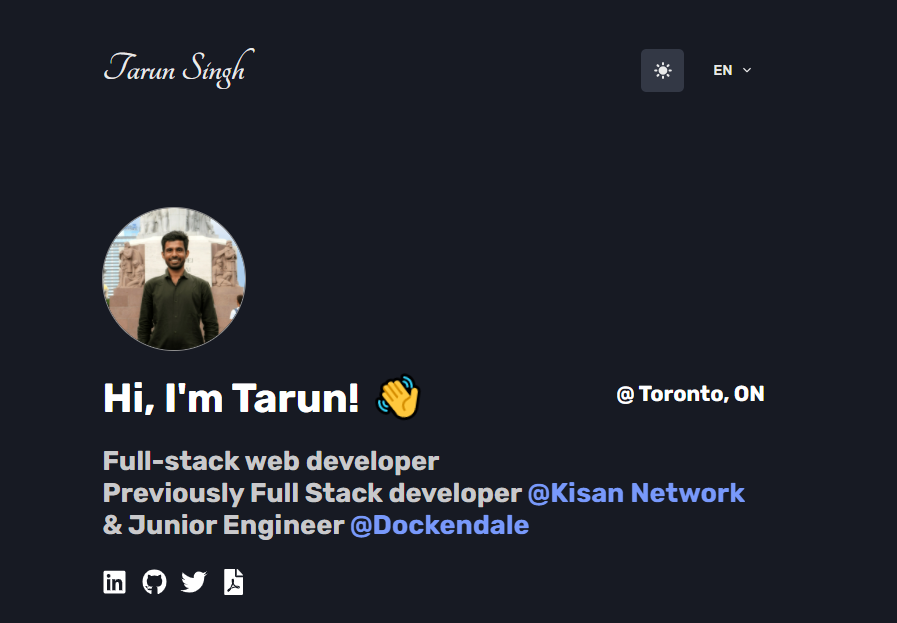
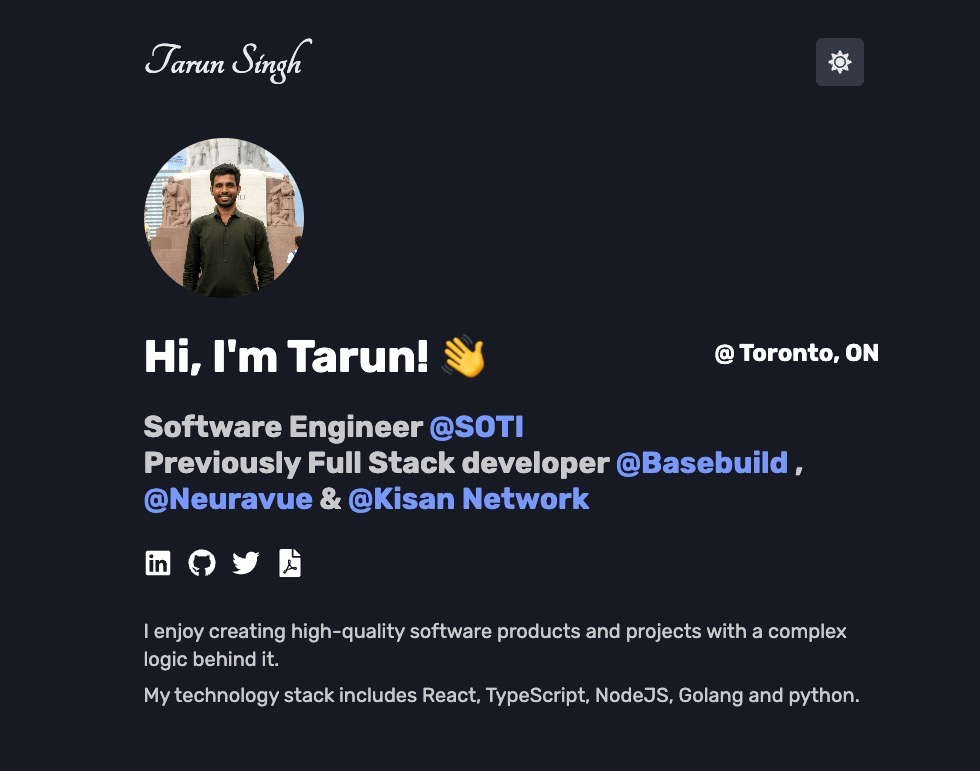
Fixed couple of issues

diff --git a/components/Skills/libs/Icons/component.tsx b/components/Skills/libs/Icons/component.tsx
@@ -21,6 +21,19 @@ export const TsIcon: FC<Props> = ({ className }: Props) => {
   );
 };
 
+export const NodeJSIcon: FC<Props> = ({ className }: Props) => {
+  return (
+    <svg
+      fill="#339933"
+      className={className}
+      viewBox="0 0 24 24"
+      xmlns="http://www.w3.org/2000/svg"
+    >
+      <path d="M11.998,24c-0.321,0-0.641-0.084-0.922-0.247l-2.936-1.737c-0.438-0.245-0.224-0.332-0.08-0.383 c0.585-0.203,0.703-0.25,1.328-0.604c0.065-0.037,0.151-0.023,0.218,0.017l2.256,1.339c0.082,0.045,0.197,0.045,0.272,0l8.795-5.076 c0.082-0.047,0.134-0.141,0.134-0.238V6.921c0-0.099-0.053-0.192-0.137-0.242l-8.791-5.072c-0.081-0.047-0.189-0.047-0.271,0 L3.075,6.68C2.99,6.729,2.936,6.825,2.936,6.921v10.15c0,0.097,0.054,0.189,0.139,0.235l2.409,1.392 c1.307,0.654,2.108-0.116,2.108-0.89V7.787c0-0.142,0.114-0.253,0.256-0.253h1.115c0.139,0,0.255,0.112,0.255,0.253v10.021 c0,1.745-0.95,2.745-2.604,2.745c-0.508,0-0.909,0-2.026-0.551L2.28,18.675c-0.57-0.329-0.922-0.945-0.922-1.604V6.921 c0-0.659,0.353-1.275,0.922-1.603l8.795-5.082c0.557-0.315,1.296-0.315,1.848,0l8.794,5.082c0.57,0.329,0.924,0.944,0.924,1.603 v10.15c0,0.659-0.354,1.273-0.924,1.604l-8.794,5.078C12.643,23.916,12.324,24,11.998,24z M19.099,13.993 c0-1.9-1.284-2.406-3.987-2.763c-2.731-0.361-3.009-0.548-3.009-1.187c0-0.528,0.235-1.233,2.258-1.233 c1.807,0,2.473,0.389,2.747,1.607c0.024,0.115,0.129,0.199,0.247,0.199h1.141c0.071,0,0.138-0.031,0.186-0.081 c0.048-0.054,0.074-0.123,0.067-0.196c-0.177-2.098-1.571-3.076-4.388-3.076c-2.508,0-4.004,1.058-4.004,2.833 c0,1.925,1.488,2.457,3.895,2.695c2.88,0.282,3.103,0.703,3.103,1.269c0,0.983-0.789,1.402-2.642,1.402 c-2.327,0-2.839-0.584-3.011-1.742c-0.02-0.124-0.126-0.215-0.253-0.215h-1.137c-0.141,0-0.254,0.112-0.254,0.253 c0,1.482,0.806,3.248,4.655,3.248C17.501,17.007,19.099,15.91,19.099,13.993z" />
+    </svg>
+  );
+};
+
 export const ActionsIcon: FC<Props> = ({ className }: Props) => {
   return (
     <svg

diff --git a/components/Hero/component.tsx b/components/Hero/component.tsx
@@ -27,12 +27,14 @@ export const Hero: FC = () => {
       </div>
       <p className="text-xl font-bold tracking-normal md:text-3xl text-black-700 dark:text-white-700">
         {"Software Engineer"}{" "}
-        <HeroLink title={"SOTI"} href="https://soti.net" />
+        <HeroLink title={"SOTI"} href="https://soti.net" /> {" & "}{" "}
+        <HeroLink title={"Neuravue"} href="https://neuravue.com" />
         <br />
         {"Previously Full Stack developer"}{" "}
         <HeroLink title={"Basebuild"} href="https://basebuild.com" /> {" , "}
-        <HeroLink title={"Neuravue"} href="https://neuravue.com" /> {" & "}
-        <HeroLink title="Kisan Network" href="https://kisannetwork.com" />
+        <HeroLink title="Kisan Network" href="https://kisannetwork.com" />{" "}
+        {" & "}
+        <HeroLink title={"Dockendale"} href="https://www.dockendale.com/" />
       </p>
       <div className="flex mt-8">
         <MediaIcon
@@ -67,7 +69,7 @@ export const Hero: FC = () => {
         </p>
         <p className="mb-2 text-base md:text-xl dark:text-white-700 text-black-700">
           {
-            "My technology stack includes React, TypeScript, NodeJS, Golang and python."
+            "My technology stack includes NextJS, Angular, React, TypeScript, NodeJS, Express, Golang, MongoDB, PostgreSQL and python."
           }
         </p>
       </div>

diff --git a/components/Skills/component.tsx b/components/Skills/component.tsx
@@ -4,7 +4,7 @@ import { Container, Section } from "components";
 import { useAnimation } from "framer-motion";
 import React, { FC, useEffect } from "react";
 import { FaReact } from "react-icons/fa";
-import { SiMysql, SiNodeDotJs } from "react-icons/si";
+import { SiMysql } from "react-icons/si";
 import { useInView } from "react-intersection-observer";
 
 import {
@@ -12,6 +12,7 @@ import {
   GCloudIcon,
   GoIcon,
   MongoDBIcon,
+  NodeJSIcon,
   TsIcon,
 } from "./libs/Icons";
 import { Skill } from "./libs/Skill";
@@ -26,7 +27,7 @@ const skills = [
   {
     name: "Node.js",
     href: "https://nodejs.org",
-    icon: <SiNodeDotJs color="#539E43" />,
+    icon: <NodeJSIcon />,
     main: true,
   },
   {
